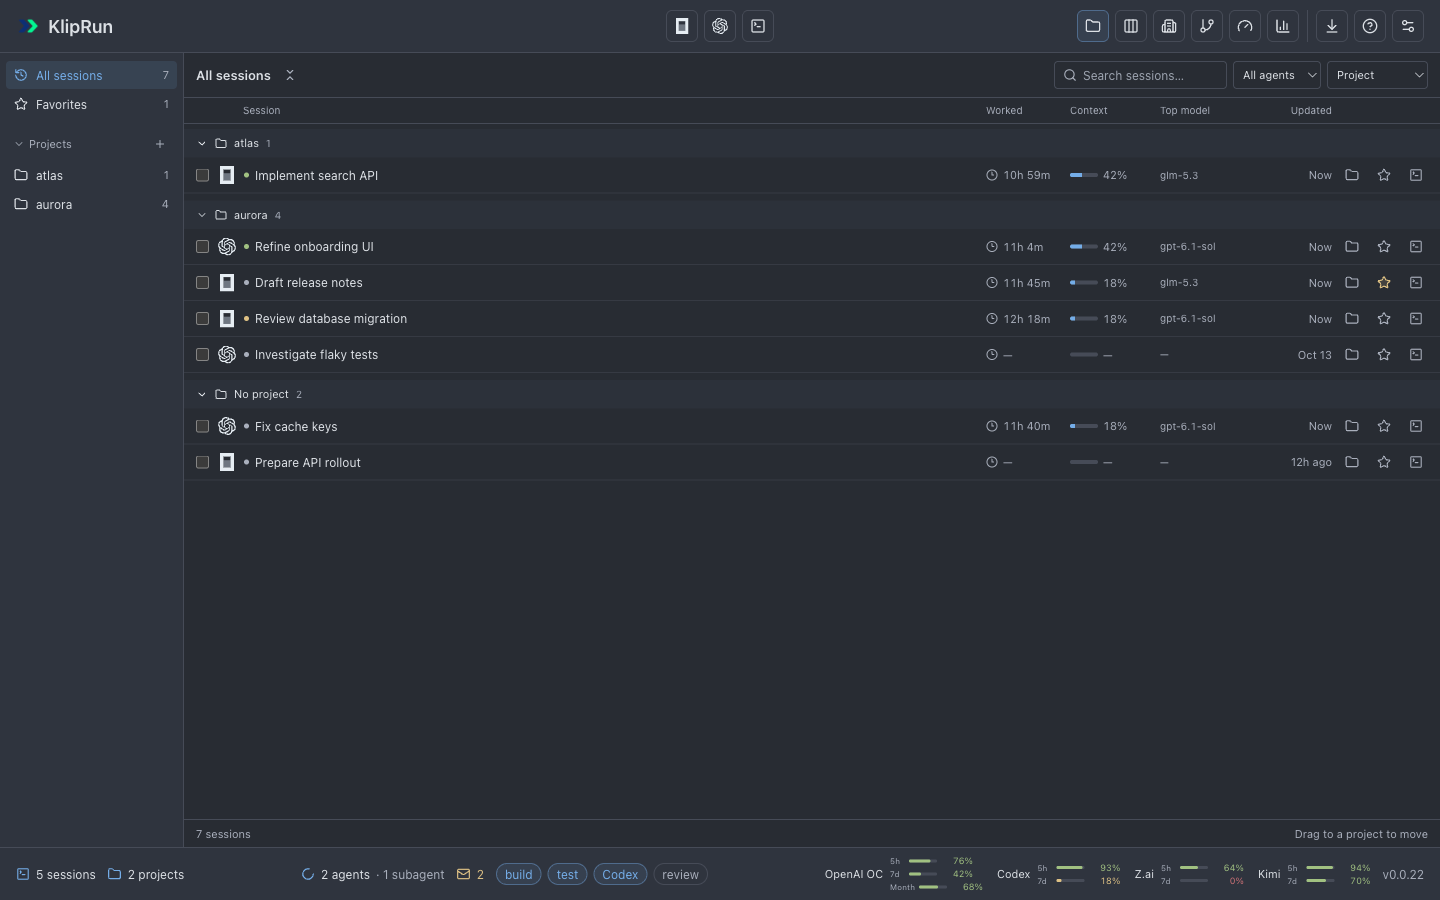
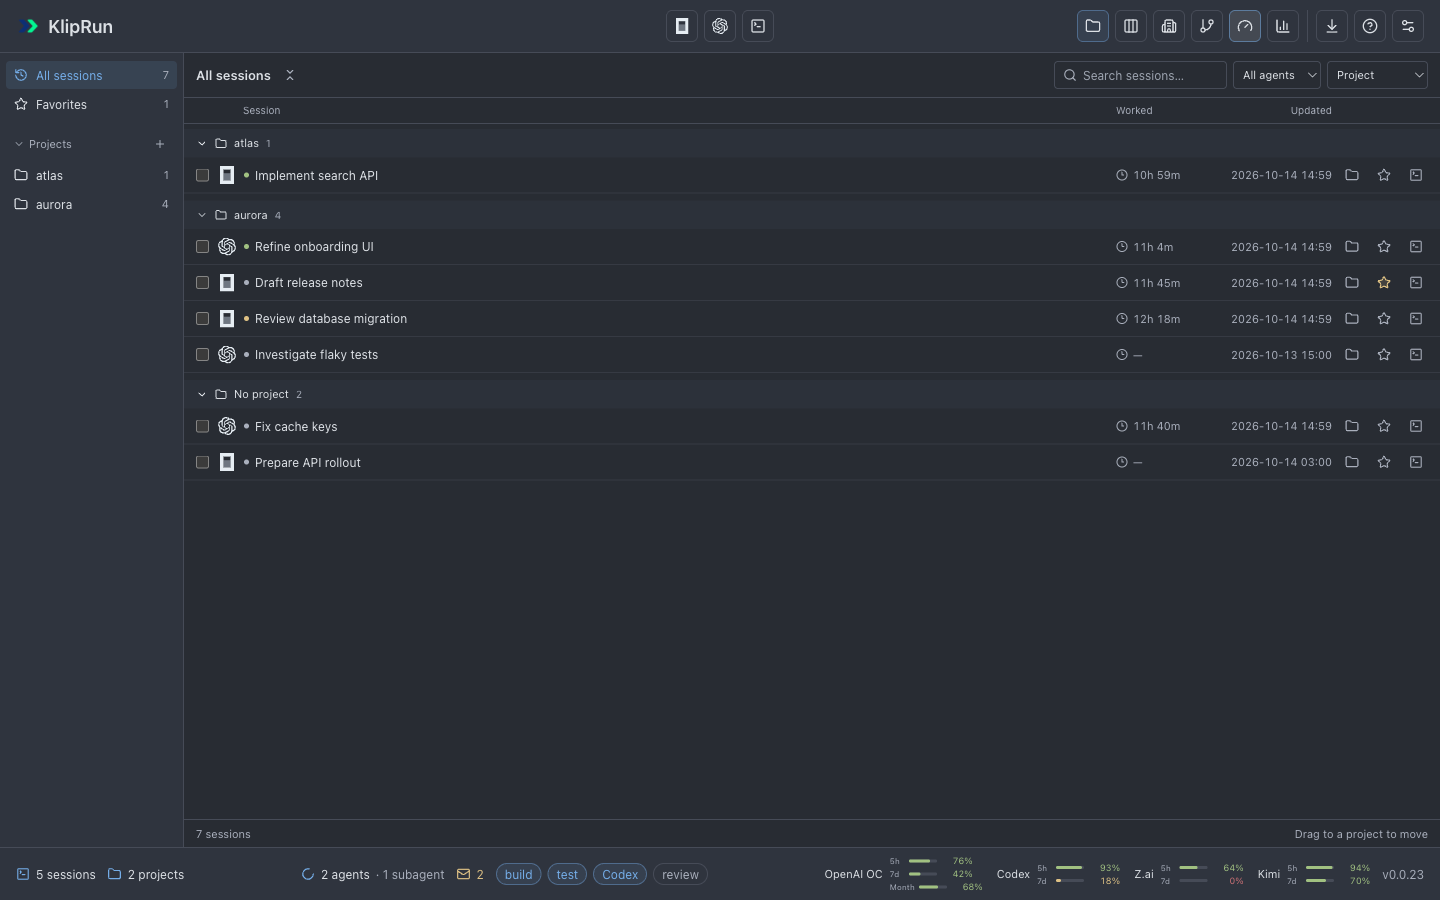
release/0.0.23: Подготовить выпуск и обновить скриншоты

diff --git a/docs/screenshots/capture-all.js b/docs/screenshots/capture-all.js
@@ -9,7 +9,7 @@ async (page, directory = "docs/screenshots", base = "http://127.0.0.1:18796") =>
     await page.goto(`${base}${path}`);
     if (!path.startsWith("/__demo/")) {
       await page.locator('[data-testid="version"]').waitFor();
-      if ((await page.locator('[data-testid="version"]').innerText()) !== "v0.0.22") throw new Error("Build the 0.0.22 client before capturing.");
+      if ((await page.locator('[data-testid="version"]').innerText()) !== "v0.0.23") throw new Error("Build the 0.0.23 client before capturing.");
     }
   }
   async function save(name) {

diff --git a/README.md b/README.md
@@ -22,7 +22,7 @@ A macOS app for OpenCode and Codex sessions: a Kanban board, embedded terminals,
 
 Requires **Apple Silicon and macOS 13+**.
 
-1. Download `KlipRun-0.0.22-macos-arm64.zip` from the [latest release](https://github.com/klipbn/kliprun_desktop/releases/latest).
+1. Download `KlipRun-0.0.23-macos-arm64.zip` from the [latest release](https://github.com/klipbn/kliprun_desktop/releases/latest).
 2. Unzip and move `KlipRun.app` to **Applications**. Quit KlipRun before replacing an older version.
 3. Open the app. If macOS blocks it, use **System Settings → Privacy & Security → Open Anyway**. The build is locally signed and not notarized.
 
@@ -44,13 +44,17 @@ The editor includes Python, SQL, Markdown, JavaScript/TypeScript, and JSON highl
 
 **Sessions** opens before Kanban in the toolbar. **All sessions** lists assigned projects first and **No project** last; **Favorites** keeps starred sessions nearby. Create projects with **+**, then select a project to create groups such as Research and Work. Sessions without a group appear under **Uncategorized**. Use checkboxes and **Move to…**, the row's folder button, or drag sessions onto a project or group; **Undo** restores the previous assignment. Organization is saved by KlipRun and never changes the original agent folder. New installations start on Sessions; an existing startup choice is preserved in Settings.
 
-Search covers the complete indexed root-session history, including project and group names; lists show 100 sessions per page. **Worked** is observed running time, excluding idle periods and child agents. **Context** is the latest board context snapshot; hover for used/limit tokens. **Top model** is the model with the most observed running time. Missing measurements show **—**. Selecting a session opens its details; the terminal button resumes it in its original agent. Kanban no longer has a Recent Sessions sidebar.
+Search covers the complete indexed root-session history, including project and group names; lists show 100 sessions per page. **Worked** is observed running time, excluding idle periods and child agents; missing measurements show **—**. **Updated** shows the full local date and time as `YYYY-MM-DD HH:mm`, including in narrow windows. Selecting a session opens its details; the terminal button resumes it in its original agent. Kanban no longer has a Recent Sessions sidebar.
 
 Navigation shortcuts follow toolbar order: **Control+1 Sessions**, **Control+2 Kanban**, **Control+3 Office**, **Control+4 Git**, **Control+5 Usage**, **Control+6 Statistics**. **Command+1–9** continues to select terminal tabs.
 
-**Office** offers three saved floor plans: **Shared loft**, **Team rooms**, and **Long studio**. Coworkers walk between working, meeting, and lounge areas as session states change. Larger team leads check on their smaller subagents; labels and team connections show which sessions belong together. Use **Office settings** to toggle names, connections, and movement; app and system reduced motion take priority. **Fit**, zoom, and dragging keep the floor accessible beside the terminal, while **Find a task** selects any coworker by title. The trophy button opens the token-usage leaderboard.
+**Office** offers three saved floor plans: **Shared loft**, **Team rooms**, and **Long studio**. Crowded floors add desk columns to use the window's width, and Team rooms can spread across additional columns. Coworkers walk between working, meeting, and lounge areas as session states change. Larger team leads check on their smaller subagents; labels and team connections show which sessions belong together. Use **Office settings** to toggle names, connections, and movement; app and system reduced motion take priority. **Fit**, zoom, and dragging keep the floor accessible beside the terminal, while **Find a task** selects any coworker by title. The trophy button opens the token-usage leaderboard.
 
 Codex subagents appear with their confirmed parent session, including nested helpers. Active helpers share their parent's card when they are in the same column and appear separately when their status differs. Finished helpers stay in the parent's counters; failures appear in its error badge. Subagents do not need a separate terminal.
+
+Codex questions appear in **Needs attention** on Kanban and **Waiting** in Office. Asynchronous questions keep that status until the next user message, including while Codex continues other work or finishes its turn. A tool acknowledgement does not count as an answer; interrupted or failed turns clear the outstanding question.
+
+**Open session** in a notification shows the session's details in the current Office or Sessions view. From other views, it opens Kanban.
 
 When an agent or subagent disappears from the observed board, its Office character walks to the **EXIT** door before leaving the scene. If the session returns on the way, the character resumes its place. Departing characters are excluded from live counts and cannot open stale session details. Reduced motion or disabled animations removes them without walking.
 

diff --git a/docs/screenshots/README.md b/docs/screenshots/README.md
@@ -1,6 +1,6 @@
 # Demo screenshots
 
-All eighteen current screenshots were captured from **KlipRun Desktop 0.0.22** on **2026-10-17**, using Graphite, the new default. The original palette is now named Midnight. Session IDs, titles, project paths, models, priority flags, Git metadata, quotas, and usage totals come only from [`mock-api.json`](mock-api.json). The preview fixes the clock to the fixture’s `board.generated_at` (2026-10-14), supplies a stub desktop bridge, and disables Office motion. No live engine, user session store, credentials, quota API, or agent process is used.
+All eighteen current screenshots were captured from **KlipRun Desktop 0.0.23** on **2026-10-18**, using Graphite, the new default. The original palette is now named Midnight. Session IDs, titles, project paths, models, priority flags, Git metadata, quotas, and usage totals come only from [`mock-api.json`](mock-api.json). The preview fixes the clock to the fixture’s `board.generated_at` (2026-10-14), supplies a stub desktop bridge, and disables Office motion. No live engine, user session store, credentials, quota API, or agent process is used.
 
 | File | Size | Example shown |
 | --- | --- | --- |
@@ -47,12 +47,14 @@ The toolbar follows **Sessions → Kanban → Office → Git → Usage → Stati
 
 The Office image now shows the Shared loft floor plan with the same fictional sessions. [`../../scripts/office.test.js`](../../scripts/office.test.js) checks all three floor plans, persistent settings, new and removed helpers, observed-state transitions and idle grace, selection, active-terminal highlighting, usage, zoom, and reduced motion in normal and constrained web-view sizes.
 
+[`../../scripts/office-density.test.js`](../../scripts/office-density.test.js) expands the fictional fixture into 45 coworkers and 24 separate project rooms. It checks all three floor plans in five window sizes, including very short windows, for horizontal space use and clipping. Review screenshots stay in `/private/tmp`; they are not the committed demo screenshots.
+
 Office includes an EXIT door in the lower central passage. [`../../scripts/office-exit.test.js`](../../scripts/office-exit.test.js) uses only fixture sessions and deterministic animation frames to check that roots and helpers remain visible while walking, disappear only at the door, cancel departure on reappearance, leave live counts immediately, and respect reduced motion. It also checks resizing during departure and delays the empty-office overlay until the last character has left. Review images are written to `/private/tmp`.
 
 Klopik skin thumbnails in `engine/src/client/public/klopik-skins/` are generated from the live SVG `Mascot` component, with four fictional color/variant examples per set. Run `bun scripts/render-klopik-previews.tsx` from `engine/src/client`, then pass the emitted HTML to [`capture-klopik-skins.js`](capture-klopik-skins.js). This captures six transparent PNG strips; the app build copies them into `Resources/KlopikSkins` for native Appearance settings. [`../../scripts/office-skins.test.js`](../../scripts/office-skins.test.js) verifies six skins across 36 layout/size combinations, live preference changes, matching leaderboard avatars, stable variations, working animation, reduced motion, and restoration of Default artwork. Review screenshots contain only fixture sessions and are saved under `/private/tmp`.
 
 [`../../scripts/git-review-layout.test.js`](../../scripts/git-review-layout.test.js) checks the compact repository toolbar, staging controls before filenames, loaded-commit search, keyboard navigation, automatic first-file diffs, persistent close, and small layouts using fixture data without Git writes.
 
-[`capture-files.js`](capture-files.js) takes `(page, outputDirectory, fixture, base)` and captures Files, Markdown, and Jupyter Notebook from `git.text_files` in `mock-api.json`, with all file reads intercepted and no writes. All eighteen current images were refreshed for 0.0.22.
+[`capture-files.js`](capture-files.js) takes `(page, outputDirectory, fixture, base)` and captures Files, Markdown, and Jupyter Notebook from `git.text_files` in `mock-api.json`, with all file reads intercepted and no writes. All eighteen current images were refreshed for 0.0.23.
 
 The shortcut image includes the native File/Edit/View/Navigate/Terminal commands. `scripts/native-menus.test.js` verifies the real web command bridge using fixture files and in-memory saves, including CodeMirror history, native-menu capability updates, unsaved-state reporting, close/cancel and draft-preserving refresh. Native focus/routing and standard menu shortcuts are checked separately with Swift tests and a disposable menu probe.

diff --git a/CHANGELOG.md b/CHANGELOG.md
@@ -4,6 +4,18 @@ Notable changes to KlipRun Desktop are recorded here. Versions use [Semantic Ver
 
 ## [Unreleased]
 
+## [0.0.23] - 2026-10-18
+
+### Changed
+
+- Remove Context and Top model from Sessions. Show Updated as a full local date and time (`YYYY-MM-DD HH:mm`), including in narrow windows.
+
+### Fixed
+
+- Spread crowded Office floors across the available width instead of adding an ever-taller column of desks. Allow Team rooms to use additional room columns while preserving paths to the entrance and exit.
+- Keep Office or Sessions open when selecting Open session in a notification, and show the matching session's details there.
+- Recognize Codex asynchronous questions in Kanban and Office. Keep Needs attention / Waiting until a user reply, including after the tool acknowledgement or turn completion, and prevent Hermes busy updates from hiding unanswered questions.
+
 ## [0.0.22] - 2026-10-17
 
 ### Added
